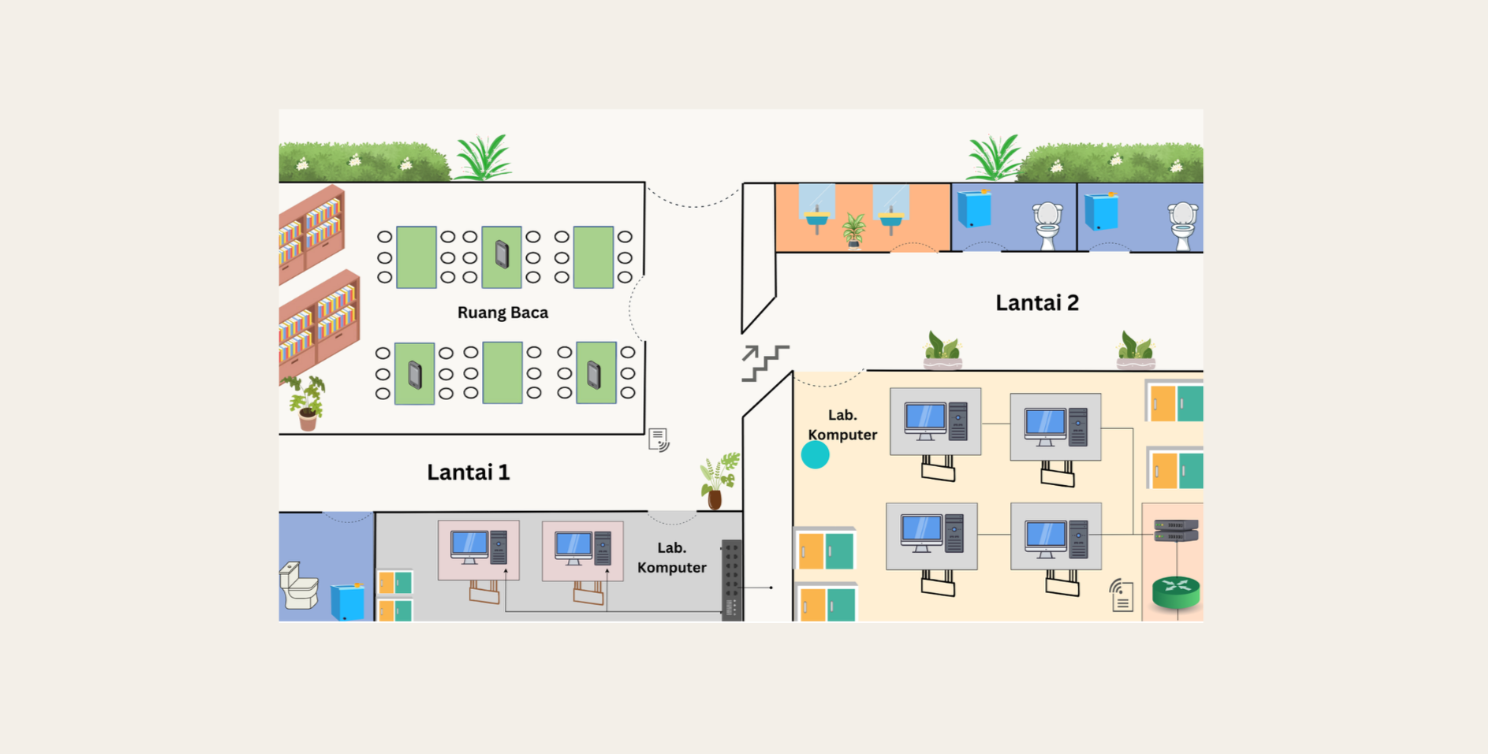
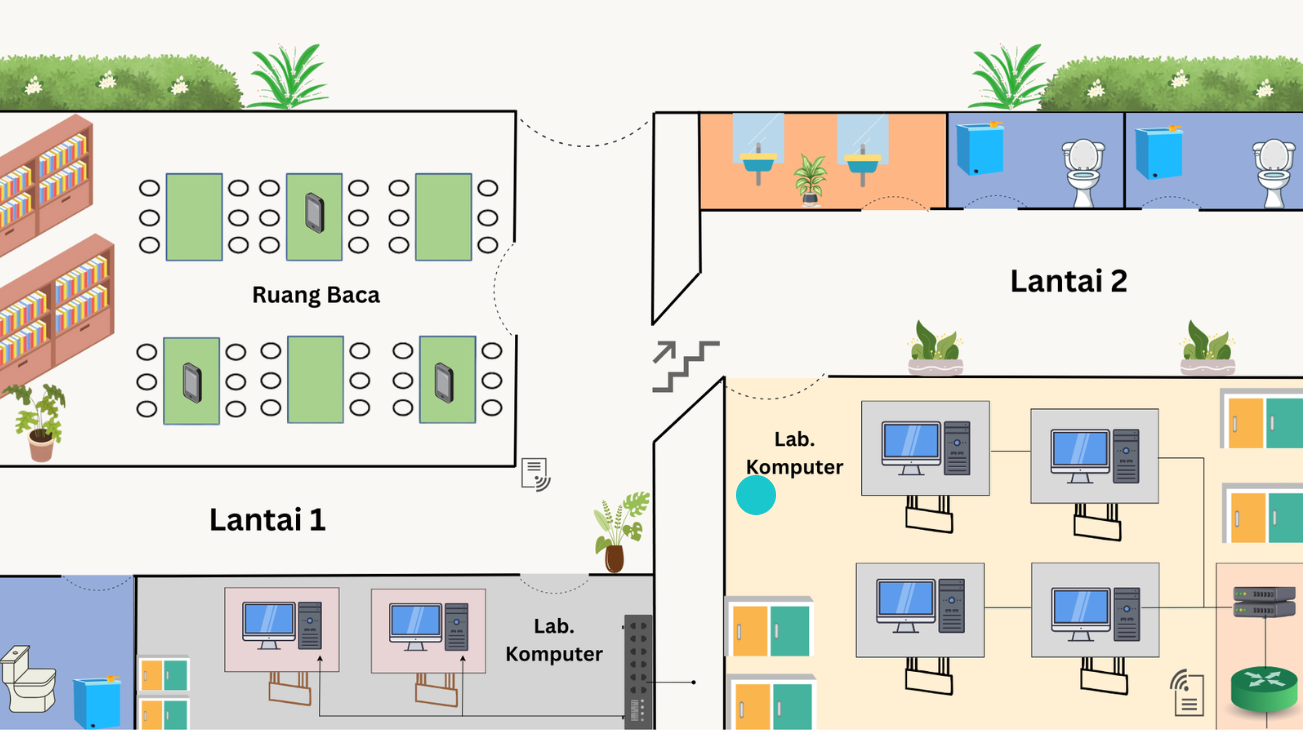
second commit portofolio

diff --git a/style.css b/style.css
@@ -647,10 +647,10 @@ img  { display: block; max-width: 100%; }
   box-shadow: 0 0 10px rgba(212,134,140,.4);
 }
 
-/* Project cards — 2 per slide di layar besar, 1 per slide di mobile */
+/* Project cards — 1 card penuh per slide di semua ukuran layar */
 .project-card {
-  /* Desktop: 2 cards per slide */
-  flex: 0 0 calc(50% - 0.75rem);
+  /* Selalu 1 card full width per slide */
+  flex: 0 0 100%;
   min-width: 0;
   /* display flex column agar body bisa stretch mengisi sisa tinggi */
   display: flex;
@@ -665,17 +665,14 @@ img  { display: block; max-width: 100%; }
   height: auto;
 }
 
-/* Tablet & HP landscape (≤ 900px) */
+/* Tablet & HP (≤ 900px) — tetap 1 card full width */
 @media (max-width: 900px) {
-  .project-card { flex: 0 0 calc(80% - 0.75rem); }
+  .project-card { flex: 0 0 100%; }
 }
 
-/* HP portrait (≤ 640px) */
+/* HP portrait (≤ 640px) — tetap 1 card full width */
 @media (max-width: 640px) {
-  .project-card {
-    /* 1 card penuh per slide di HP portrait */
-    flex: 0 0 100%;
-  }
+  .project-card { flex: 0 0 100%; }
 }
 
 @media (max-width: 768px) {
@@ -693,22 +690,36 @@ img  { display: block; max-width: 100%; }
 .project-img-wrap {
   position: relative;
   overflow: hidden;
-  /* Tinggi gambar responsif pakai clamp agar tidak terlalu besar/kecil */
-  height: clamp(160px, 28vw, 260px);
+  width: 100%;
   flex-shrink: 0;
+  background: #f5dde0; /* placeholder warna blush saat gambar loading */
 }
-.project-img { width: 100%; height: 100%; object-fit: cover; transition: transform .7s cubic-bezier(.25,.46,.45,.94); }
-.project-card:hover .project-img { transform: scale(1.07); }
+.project-img {
+  width: 100%;
+  height: auto;         /* ikuti proporsi asli gambar, tidak terpotong */
+  max-height: 420px;    /* batas atas agar tidak terlalu jangkung di desktop */
+  display: block;
+  object-fit: contain;  /* tampilkan gambar penuh, tidak dipotong */
+  object-position: center center;
+  transition: transform .7s cubic-bezier(.25,.46,.45,.94);
+}
+.project-card:hover .project-img { transform: scale(1.04); }
 
-/* HP portrait — gambar sedikit lebih kecil agar teks lebih banyak ruang */
+/* Tablet (≤ 900px) */
+@media (max-width: 900px) {
+  .project-img { max-height: 360px; }
+}
+/* HP portrait (≤ 640px) */
 @media (max-width: 640px) {
-  .project-img-wrap { height: clamp(140px, 45vw, 220px); }
+  .project-img { max-height: 300px; }
 }
+/* HP kecil (≤ 480px) */
 @media (max-width: 480px) {
-  .project-img-wrap { height: clamp(130px, 44vw, 200px); }
+  .project-img { max-height: 260px; }
 }
+/* HP sangat kecil (≤ 360px) */
 @media (max-width: 360px) {
-  .project-img-wrap { height: clamp(120px, 42vw, 180px); }
+  .project-img { max-height: 220px; }
 }
 
 .project-img-overlay {

diff --git a/script.js b/script.js
@@ -111,11 +111,9 @@ function initSlider() {
   let   dragOffset   = 0;
   let   totalSlides  = 1;
 
-  /* ── hitung cards per slide berdasarkan lebar layar ── */
+  /* ── selalu tampilkan 1 card per slide di semua ukuran layar ── */
   function getCardsPerSlide() {
-    if (window.innerWidth <= 640) return 1;
-    if (window.innerWidth <= 900) return 1;
-    return 2;
+    return 1;
   }
 
   /* ── get slide offset in px ── */